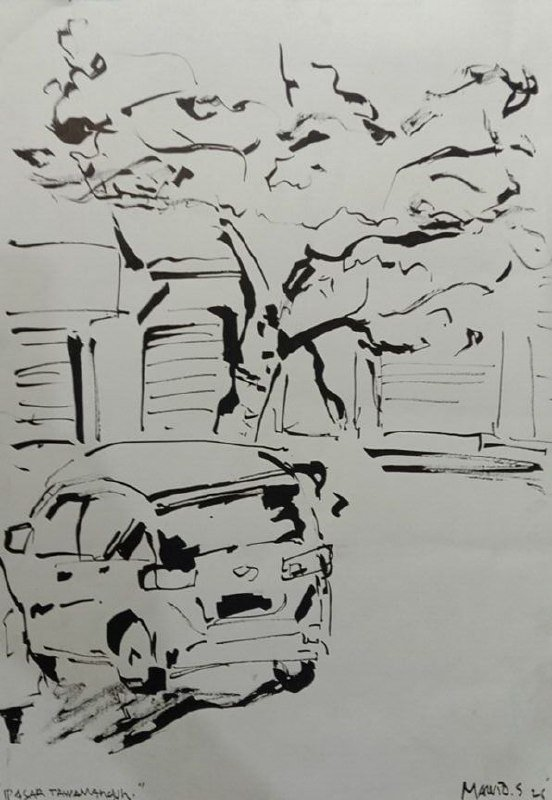
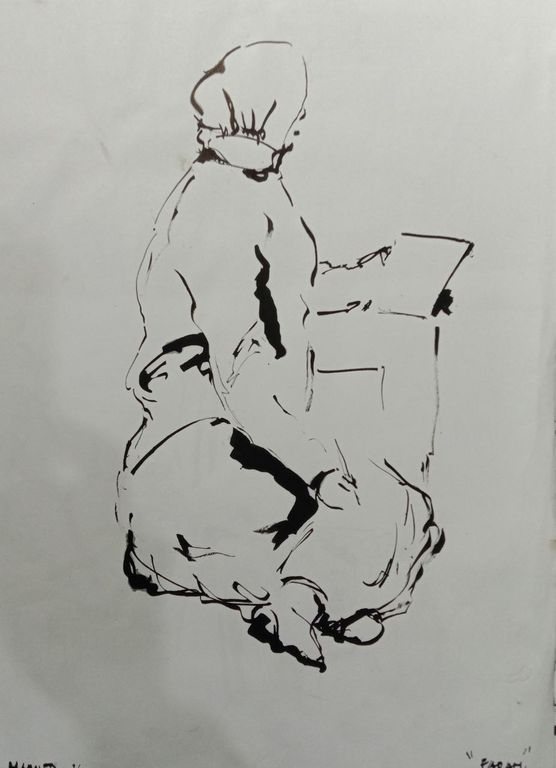
Perbarui SKT-002 dengan kuratorial unik dan Multi-CDN

diff --git a/index.html b/index.html
@@ -3,8 +3,8 @@
 <head>
     <meta charset="UTF-8"/>
     <meta content="width=device-width, initial-scale=1.0" name="viewport"/>
-    <title>Katalog Sketsa Maruto Septriono | Sketch &amp; Drawing Archive</title>
-    <link href="https://fonts.googleapis.com/css2?family=Cinzel:wght@600;700;900&amp;family=Plus+Jakarta+Sans:wght@300;400;500;600;700&amp;display=swap" rel="stylesheet"/>
+    <title>Katalog Sketsa Maruto Septriono | Sketch Archive</title>
+    <link href="[https://fonts.googleapis.com/css2?family=Cinzel:wght@600;700;900&amp;family=Plus+Jakarta+Sans:wght@300;400;500;600;700&amp;display=swap](https://fonts.googleapis.com/css2?family=Cinzel:wght@600;700;900&amp;family=Plus+Jakarta+Sans:wght@300;400;500;600;700&amp;display=swap)" rel="stylesheet"/>
     <style>
         :root {
             --bg-color: #0b0c10;
@@ -147,7 +147,7 @@
 
         .img-container {
             position: relative;
-            background: #111318;
+            background: #000;
             width: 100%;
             height: 280px;
             cursor: pointer;
@@ -480,6 +480,8 @@
     </style>
 </head>
 <body>
+    
+
     <div id="google_translate_element" style="display:none;"></div>
 
     <div class="top-nav">
@@ -498,68 +500,20 @@
         </div>
 
         <div class="stats-tag">
-            Total Sketsa Terarsip: <strong>2 Karya Sketsa</strong>
+            Total Sketsa Terarsip: <strong>3 Karya Sketsa</strong>
         </div>
     </header>
 
     <main class="container">
         <div class="gallery-grid" id="galleryGrid">
             
-        <div class="art-card" id="card-SKT-002" data-search="skt-002 elegia garis mengembara tinta di atas kertas 2026 art, sketch, drawing, indonesia, darkart, contemporaryart, marutoseptriono">
-            <div class="img-container" onclick="openModal('SKT-002')">
-                <img src="images/SKT-002.jpg" 
-                     data-filename="SKT-002.jpg"
-                     data-try="0"
-                     alt="Elegia Garis Mengembara" 
-                     loading="lazy" 
-                     onerror="handleImageFallback(this)"/>
-                <div class="art-badge-row">
-                    <span class="badge badge-id">SKT-002</span>
-                    <span class="badge badge-year">2026</span>
-                </div>
-            </div>
-
-            <div class="card-info">
-                <h3 class="art-title" onclick="openModal('SKT-002')">Elegia Garis Mengembara</h3>
-                <p class="art-spec">29,7 cm x 42 cm &#8226; Tinta di atas kertas</p>
-
-                <div class="commercial-box">
-                    <div class="price-col">
-                        <span class="price-label">Karya Original</span>
-                        <span class="price-val">$ 100</span>
-                    </div>
-                    <div class="price-col">
-                        <span class="price-label">Pengiriman</span>
-                        <span class="shipping-badge">Bebas Ongkir</span>
-                    </div>
-                </div>
-
-                <div class="action-buttons">
-                    <a href="https://instagram.com/maruto.septriono" target="_blank" class="btn btn-dm">
-                        ✉ DM
-                    </a>
-                    <a href="mailto:kirimdoa@gmail.com?subject=Beli Sketsa Original SKT-002 - Elegia Garis Mengembara" class="btn btn-email">
-                        ✉ Beli via Email
-                    </a>
-                </div>
-
-                <div class="card-statement" onclick="openModal('SKT-002')">
-                    &quot;Tinta yang meresap ke pori kertas adalah napas yang dibekukan oleh ruang dan waktu.&quot;
-                </div>
-
-                <div class="card-footer-row">
-                    <span class="card-footer-link" onclick="openModal('SKT-002')">&#8226; Detail &#8250;</span>
-                    <button class="btn-copy-card" onclick="copyDirectLink('SKT-002', event)" title="Salin Link">🔗 Tautan</button>
-                </div>
-            </div>
-        </div>
-    
-        <div class="art-card" id="card-SKT-001" data-search="skt-001 studi garis &amp; bentuk tinta di atas kertas 2026 art, sketch, drawing, indonesia, darkart, contemporaryart, marutoseptriono">
+        <div class="art-card" id="card-SKT-001" data-search="skt-001 hening di antara kertas dan tinta tinta di atas kertas 2026 sketch, drawing, inkdrawing, urbansketch, contemporaryart, marutoseptriono">
             <div class="img-container" onclick="openModal('SKT-001')">
-                <img src="images/SKT-001.jpg" 
+                <img src="[https://katalog-sketsa-maruto.vercel.app/images/](https://katalog-sketsa-maruto.vercel.app/images/)SKT-001.jpg" 
                      data-filename="SKT-001.jpg"
+                     data-artid="SKT-001"
                      data-try="0"
-                     alt="Studi Garis &amp; Bentuk" 
+                     alt="Hening di Antara Kertas dan Tinta" 
                      loading="lazy" 
                      onerror="handleImageFallback(this)"/>
                 <div class="art-badge-row">
@@ -569,7 +523,57 @@
             </div>
 
             <div class="card-info">
-                <h3 class="art-title" onclick="openModal('SKT-001')">Studi Garis &amp; Bentuk</h3>
+                <h3 class="art-title" onclick="openModal('SKT-001')">Hening di Antara Kertas dan Tinta</h3>
+                <p class="art-spec">29.7 cm x 42 cm &#8226; Tinta di atas kertas</p>
+
+                <div class="commercial-box">
+                    <div class="price-col">
+                        <span class="price-label">Karya Original</span>
+                        <span class="price-val">$ 100</span>
+                    </div>
+                    <div class="price-col">
+                        <span class="price-label">Pengiriman</span>
+                        <span class="shipping-badge">Bebas Ongkir</span>
+                    </div>
+                </div>
+
+                <div class="action-buttons">
+                    <a href="[https://instagram.com/maruto.septriono](https://instagram.com/maruto.septriono)" target="_blank" class="btn btn-dm">
+                        ✉ DM
+                    </a>
+                    <a href="mailto:kirimdoa@gmail.com?subject=Beli Sketsa Original SKT-001 - Hening di Antara Kertas dan Tinta" class="btn btn-email">
+                        ✉ Beli via Email
+                    </a>
+                </div>
+
+                <div class="card-statement" onclick="openModal('SKT-001')">
+                    &quot;Karya ini adalah sebuah perjalanan ke dalam ruang yang terbuka, tanpa batas, di mana setiap garis tinta mengga...&quot;
+                </div>
+
+                <div class="card-footer-row">
+                    <span class="card-footer-link" onclick="openModal('SKT-001')">&#8226; Detail &#8250;</span>
+                    <button class="btn-copy-card" onclick="copyDirectLink('SKT-001', event)" title="Salin Link">🔗 Tautan</button>
+                </div>
+            </div>
+        </div>
+    
+        <div class="art-card" id="card-SKT-003" data-search="skt-003 studi garis &amp; bentuk tinta di atas kertas 2026 art, sketch, drawing, indonesia, darkart, contemporaryart, marutoseptriono">
+            <div class="img-container" onclick="openModal('SKT-003')">
+                <img src="[https://katalog-sketsa-maruto.vercel.app/images/](https://katalog-sketsa-maruto.vercel.app/images/)SKT-003.jpg" 
+                     data-filename="SKT-003.jpg"
+                     data-artid="SKT-003"
+                     data-try="0"
+                     alt="Studi Garis &amp; Bentuk" 
+                     loading="lazy" 
+                     onerror="handleImageFallback(this)"/>
+                <div class="art-badge-row">
+                    <span class="badge badge-id">SKT-003</span>
+                    <span class="badge badge-year">2026</span>
+                </div>
+            </div>
+
+            <div class="card-info">
+                <h3 class="art-title" onclick="openModal('SKT-003')">Studi Garis &amp; Bentuk</h3>
                 <p class="art-spec">29,7 cm x 42 cm &#8226; Tinta di atas kertas</p>
 
                 <div class="commercial-box">
@@ -584,21 +588,71 @@
                 </div>
 
                 <div class="action-buttons">
-                    <a href="https://instagram.com/maruto.septriono" target="_blank" class="btn btn-dm">
+                    <a href="[https://instagram.com/maruto.septriono](https://instagram.com/maruto.septriono)" target="_blank" class="btn btn-dm">
                         ✉ DM
                     </a>
-                    <a href="mailto:kirimdoa@gmail.com?subject=Beli Sketsa Original SKT-001 - Studi Garis &amp; Bentuk" class="btn btn-email">
+                    <a href="mailto:kirimdoa@gmail.com?subject=Beli Sketsa Original SKT-003 - Studi Garis &amp; Bentuk" class="btn btn-email">
                         ✉ Beli via Email
                     </a>
                 </div>
 
-                <div class="card-statement" onclick="openModal('SKT-001')">
+                <div class="card-statement" onclick="openModal('SKT-003')">
                     &quot;Refleksi mendalam antara ruang hening dan dinamika batin seniman.&quot;
                 </div>
 
                 <div class="card-footer-row">
-                    <span class="card-footer-link" onclick="openModal('SKT-001')">&#8226; Detail &#8250;</span>
-                    <button class="btn-copy-card" onclick="copyDirectLink('SKT-001', event)" title="Salin Link">🔗 Tautan</button>
+                    <span class="card-footer-link" onclick="openModal('SKT-003')">&#8226; Detail &#8250;</span>
+                    <button class="btn-copy-card" onclick="copyDirectLink('SKT-003', event)" title="Salin Link">🔗 Tautan</button>
+                </div>
+            </div>
+        </div>
+    
+        <div class="art-card" id="card-SKT-002" data-search="skt-002 hujan dari pagi hari tinta di atas kertas 2026 sketch, drawing, inkdrawing, contemporaryart, darkart, indonesianartist, marutoseptriono">
+            <div class="img-container" onclick="openModal('SKT-002')">
+                <img src="[https://katalog-sketsa-maruto.vercel.app/images/](https://katalog-sketsa-maruto.vercel.app/images/)SKT-002.jpg" 
+                     data-filename="SKT-002.jpg"
+                     data-artid="SKT-002"
+                     data-try="0"
+                     alt="Hujan dari Pagi Hari" 
+                     loading="lazy" 
+                     onerror="handleImageFallback(this)"/>
+                <div class="art-badge-row">
+                    <span class="badge badge-id">SKT-002</span>
+                    <span class="badge badge-year">2026</span>
+                </div>
+            </div>
+
+            <div class="card-info">
+                <h3 class="art-title" onclick="openModal('SKT-002')">Hujan dari Pagi Hari</h3>
+                <p class="art-spec">29,7 cm x 42 cm &#8226; Tinta di atas kertas</p>
+
+                <div class="commercial-box">
+                    <div class="price-col">
+                        <span class="price-label">Karya Original</span>
+                        <span class="price-val">$ 100</span>
+                    </div>
+                    <div class="price-col">
+                        <span class="price-label">Pengiriman</span>
+                        <span class="shipping-badge">Bebas Ongkir</span>
+                    </div>
+                </div>
+
+                <div class="action-buttons">
+                    <a href="[https://instagram.com/maruto.septriono](https://instagram.com/maruto.septriono)" target="_blank" class="btn btn-dm">
+                        ✉ DM
+                    </a>
+                    <a href="mailto:kirimdoa@gmail.com?subject=Beli Sketsa Original SKT-002 - Hujan dari Pagi Hari" class="btn btn-email">
+                        ✉ Beli via Email
+                    </a>
+                </div>
+
+                <div class="card-statement" onclick="openModal('SKT-002')">
+                    &quot;1-2 Tapi di dalam dunia ini, setiap bentuk yang terlihat adalah hasil dari kekuatan dan keterbatasan. Setiap g...&quot;
+                </div>
+
+                <div class="card-footer-row">
+                    <span class="card-footer-link" onclick="openModal('SKT-002')">&#8226; Detail &#8250;</span>
+                    <button class="btn-copy-card" onclick="copyDirectLink('SKT-002', event)" title="Salin Link">🔗 Tautan</button>
                 </div>
             </div>
         </div>
@@ -640,7 +694,7 @@
                 <div id="mTags"></div>
 
                 <div class="action-buttons" style="margin-top:10px;">
-                    <a class="btn btn-dm" href="https://instagram.com/maruto.septriono" id="mDmBtn" target="_blank">
+                    <a class="btn btn-dm" href="[https://instagram.com/maruto.septriono](https://instagram.com/maruto.septriono)" id="mDmBtn" target="_blank">
                         ✉ DM Instagram
                     </a>
                     <a class="btn btn-email" href="#" id="mEmailBtn">
@@ -657,10 +711,11 @@
         <p>&#169; 2026 Maruto Septriono. Arsip Sketsa &amp; Eksplorasi Visual Orisinal.</p>
     </footer>
 
-    <script src="https://translate.google.com/translate_a/element.js?cb=googleTranslateElementInit" type="text/javascript"></script>
+    <script src="[https://translate.google.com/translate_a/element.js?cb=googleTranslateElementInit](https://translate.google.com/translate_a/element.js?cb=googleTranslateElementInit)" type="text/javascript"></script>
 
     <script type="text/javascript">
-        const catalogData = [{"ID": "SKT-001", "Judul": "Studi Garis & Bentuk", "Tahun": "2026", "Ukuran": "29,7 cm x 42 cm", "Media": "Tinta di atas kertas", "Nama_File": "SKT-001 - Studi Garis  Bentuk.jpg", "web_image": "SKT-001.jpg", "artist_statement_id": "Refleksi mendalam antara ruang hening dan dinamika batin seniman.", "deskripsi_kuratorial": "Eksplorasi teknik arsir berkarakter gotik surealis dengan kekuatan garis yang dominan.", "tags": "art, sketch, drawing, indonesia, darkart, contemporaryart, marutoseptriono", "harga_original_usd": 100, "catatan_pengiriman": "Bebas Ongkos Kirim", "status_karya": "Tersedia (Karya Original)"}, {"ID": "SKT-002", "Judul": "Elegia Garis Mengembara", "Tahun": "2026", "Ukuran": "29,7 cm x 42 cm", "Media": "Tinta di atas kertas", "Nama_File": "SKT-002 - Studi Garis  Bentuk.jpg", "web_image": "SKT-002.jpg", "artist_statement_id": "Tinta yang meresap ke pori kertas adalah napas yang dibekukan oleh ruang dan waktu.", "deskripsi_kuratorial": "Karya ini memperlihatkan kekuatan tarikan garis manual yang tegas dan liar, mengeksplorasi batas antara bentuk figuratif dan abstraksi emosional dengan karakter tinta hitam yang pekat.", "tags": "art, sketch, drawing, indonesia, darkart, contemporaryart, marutoseptriono", "harga_original_usd": 100, "catatan_pengiriman": "Bebas Ongkos Kirim", "status_karya": "Tersedia (Karya Original)"}];
+    //<![CDATA[
+        const catalogData = [{"ID": "SKT-002", "Judul": "Hujan dari Pagi Hari", "Tahun": "2026", "Ukuran": "29,7 cm x 42 cm", "Media": "Tinta di atas kertas", "Nama_File": "SKT-002 - Studi Garis  Bentuk.jpg", "web_image": "SKT-002.jpg", "artist_statement_id": "1-2 Tapi di dalam dunia ini, setiap bentuk yang terlihat adalah hasil dari kekuatan dan keterbatasan. Setiap garis yang mengalir membentuk wajah yang berbeda, menunjukkan bahwa manusia bukan hanya sebagai makhluk yang dipahami secara fisik, tetapi juga sebagai subjek yang diinginkan oleh hati.", "deskripsi_kuratorial": "Dalam karya ini, garis-garis hitam yang mengalir dan berbentuk seperti salju membentuk bentuk yang tidak terduga. Keterbatasan pada garis menciptakan ruang yang kosong di dalamnya, menunjukkan bahwa objek-objek yang tampak adalah hasil dari keberagaman dan keterbatasan. Garis-garis ini menggambarkan bentuk yang tidak dapat dilihat secara langsung, namun terlihat melalui ekspresi visual yang kuat.", "tags": "sketch, drawing, inkdrawing, contemporaryart, darkart, indonesianartist, marutoseptriono", "harga_original_usd": 100, "catatan_pengiriman": "Bebas Ongkos Kirim", "status_karya": "Tersedia (Karya Original)"}, {"ID": "SKT-003", "Judul": "Studi Garis & Bentuk", "Tahun": "2026", "Ukuran": "29,7 cm x 42 cm", "Media": "Tinta di atas kertas", "Nama_File": "SKT-003 - Studi Garis  Bentuk.jpg", "web_image": "SKT-003.jpg", "artist_statement_id": "Refleksi mendalam antara ruang hening dan dinamika batin seniman.", "deskripsi_kuratorial": "Eksplorasi teknik arsir berkarakter gotik surealis dengan kekuatan garis yang dominan.", "tags": "art, sketch, drawing, indonesia, darkart, contemporaryart, marutoseptriono"}, {"ID": "SKT-001", "Judul": "Hening di Antara Kertas dan Tinta", "Tahun": "2026", "Ukuran": "29.7 cm x 42 cm", "Media": "Tinta di atas kertas", "harga_original_usd": 100, "catatan_pengiriman": "Bebas Ongkos Kirim", "Nama_File": "SKT-001 - Hening di Antara Kertas dan Tinta.jpg", "web_image": "SKT-001.jpg", "artist_statement_id": "Karya ini adalah sebuah perjalanan ke dalam ruang yang terbuka, tanpa batas, di mana setiap garis tinta menggambarkan suara dari hati. Dalam bentuk yang sederhana namun penuh makna, ia menunjukkan bahwa ketenangan bukanlah hasil dari keteraturan, melainkan dari keberagaman dan pergerakan alamiah dari pikiran.", "deskripsi_kuratorial": "Gestur tarikan garis dalam karya ini menggambarkan proses berpikir yang dinamis dan mendalam. Dengan kontras yang tajam antara gelap-terang, serta komposisi bentuk yang tidak teratur namun harmonis, karya ini menyoroti keberagaman dari ruang dan waktu. Setiap garis membentuk siluet yang menggambarkan sebuah perjalanan penuh makna, di mana bentuk-bentuk yang berbeda saling melengkapi dalam satu kesatuan visual.", "tags": "sketch, drawing, inkdrawing, urbansketch, contemporaryart, marutoseptriono"}];
         let currentModalArtId = '';
 
         function googleTranslateElementInit() {
@@ -688,20 +743,19 @@
             }
         }
 
-        // ANTI-FLICKER FALLBACK SISTEM (TERKUNCI AMAN)
+        // MULTI-CDN SMART FALLBACK
         function handleImageFallback(img) {
             const currentTry = parseInt(img.getAttribute('data-try') || '0');
             const fname = img.getAttribute('data-filename') || '';
 
             if (currentTry === 0) {
                 img.setAttribute('data-try', '1');
-                img.src = 'https://katalog-sketsa-maruto.vercel.app/images/' + fname;
+                img.src = '[https://wizhclop.github.io/katalog-sketsa-maruto/images/](https://wizhclop.github.io/katalog-sketsa-maruto/images/)' + fname;
             } else if (currentTry === 1) {
                 img.setAttribute('data-try', '2');
-                img.src = 'https://wizhclop.github.io/katalog-sketsa-maruto/images/' + fname;
+                img.src = '[https://cdn.jsdelivr.net/gh/wizhclop/katalog-sketsa-maruto@main/images/](https://cdn.jsdelivr.net/gh/wizhclop/katalog-sketsa-maruto@main/images/)' + fname;
             } else {
-                // MATIKAN ONERROR AGAR TIDAK ADA LOOP KEDIP
-                img.onerror = null;
+                img.src = '[https://via.placeholder.com/400x500/181820/888?text=Maruto+Sketch](https://via.placeholder.com/400x500/181820/888?text=Maruto+Sketch)';
             }
         }
 
@@ -760,7 +814,7 @@
             mImgEl.setAttribute('data-try', '0');
             mImgEl.setAttribute('data-filename', webImg);
             mImgEl.onerror = function() { handleImageFallback(this); };
-            mImgEl.src = 'images/' + webImg;
+            mImgEl.src = '[https://katalog-sketsa-maruto.vercel.app/images/](https://katalog-sketsa-maruto.vercel.app/images/)' + webImg;
 
             document.getElementById('mStatement').innerText = '"' + (item.artist_statement_id || 'Refleksi artistik.') + '"';
             document.getElementById('mCuratorial').innerText = item.deskripsi_kuratorial || 'Belum ada catatan kuratorial rinci.';
@@ -821,6 +875,7 @@
                 closeModal();
             }
         });
+    //]]>
     </script>
 </body>
 </html>
